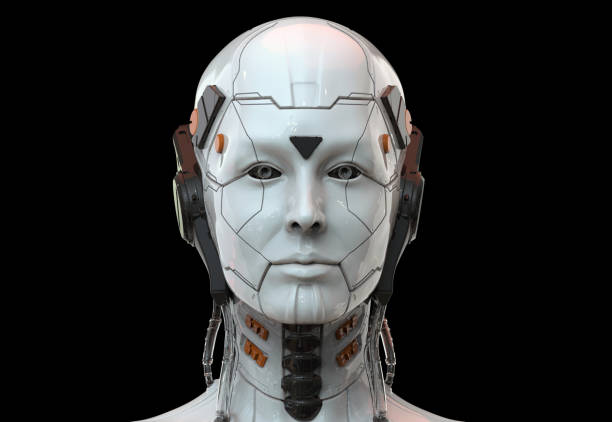
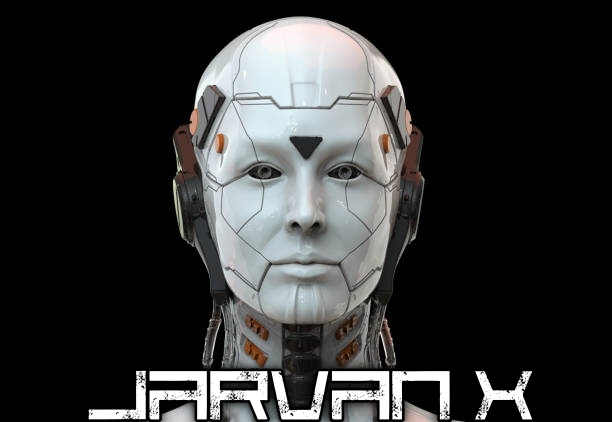
feito alterações no template, inserido a img do robo, criado o arquivo de css para mudar os efeitos do bootstrap, corrige as referencias dos arquivos css e img no template.

Changed region(s): [[0.1242, 0.8318, 0.7451, 1.0], [0.7761, 0.8626, 0.8693, 1.0]]

diff --git a/App/view/html/template.html b/App/view/html/template.html
@@ -5,38 +5,43 @@
   <meta charset="UTF-8">
   <meta http-equiv="X-UA-Compatible" content="IE=edge">
   <meta name="viewport" content="width=device-width, initial-scale=1.0">
-  <link rel="stylesheet" href="../../../lib/bootstrap-5.1.3-dist/css/bootstrap.css">
-  <link rel="stylesheet" href="../css/style.css">
+  <link rel="stylesheet" href="lib/bootstrap-5.1.3-dist/css/bootstrap.css">
+  <link rel="stylesheet" href="app/view/css/style.css">
   <title>Jarvan X</title>
 </head>
-<body class="container-sm bg-dark">
 
+<body class="bg-dark">
 
-  <header> 
+  <section class="container-sm ">
+    <header>
 
-  </header>
-  
-  <main>
-    <section class=" my-5 py-5 mx-5 my-5 text-center"> 
-      <img src="../img/robot.jpg" alt="Robo Interface" class="img">
-      <h1 class=" text-light fs-1"> Jarvan X</h1>
-      <div class="col-4 "> 
-      <div class="input-group flex-nowrap mx-5 my-5">
-        <span class="input-group-text  text-white bg-primary" id="addon-wrapping inputGroup-sizing-lg">X</span>
-        <input type="number" class="form-control" placeholder="Numero" aria-label="Numero" aria-describedby="addon-wrapping">
+    </header>
+
+    <main>
+      <div class=" my-5 py-5 mx-5 my-5 text-center border border-secondary rd">
+        <section class=" my-5 py-5 mx-5 my-5 text-center">
+          <img src="app/view/img/robot.jpg" alt="Robo Interface" class="img">
+          <section class="mx-5 mx-5 text-center ">
+            <div class="mx-5 my-2 text-center ">
+              <div class="input-group input-group-lg mb-3">
+                <span class="input-group-text bg-primary text-light" id="inputGroup-sizing-lg">0</span>
+                <input type="number" class="form-control" placeholder="Numero" aria-label="Numero" aria-describedby="basic-addon1">
+                <button type="submit" class="btn btn-primary">Enviar</button>
+              </div>
+            </div>
+          </section>
       </div>
-    </div>
 
 
-      </section>
-    
-  
+  </section>
+
+  </div>
   </main>
-  
+
   <footer>
-  
+
   </footer>
-  
+  </section>
 
 
 

diff --git a/App/view/css/style.css b/App/view/css/style.css
@@ -2,3 +2,6 @@
 
     border-radius: 60% 60% 10% 10%;
 }
+.rd {
+    border-radius: 02%;
+}
